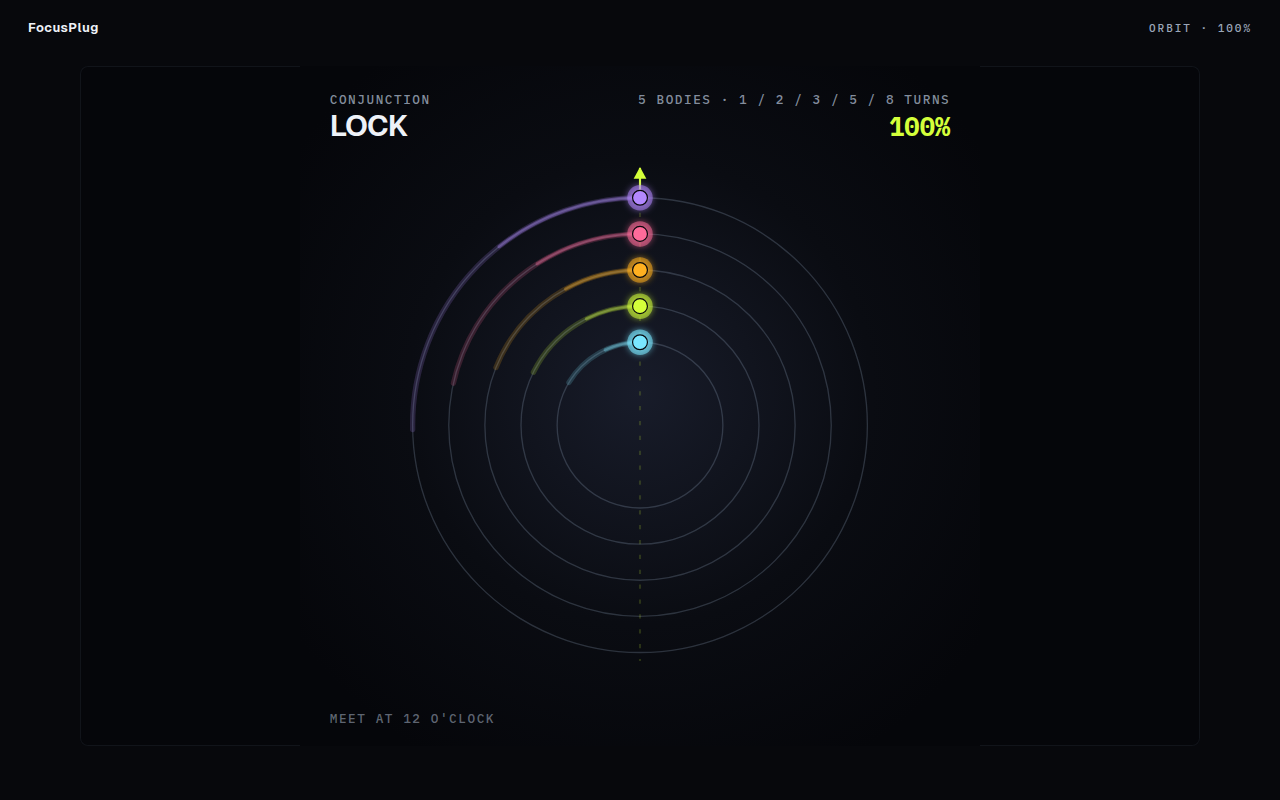
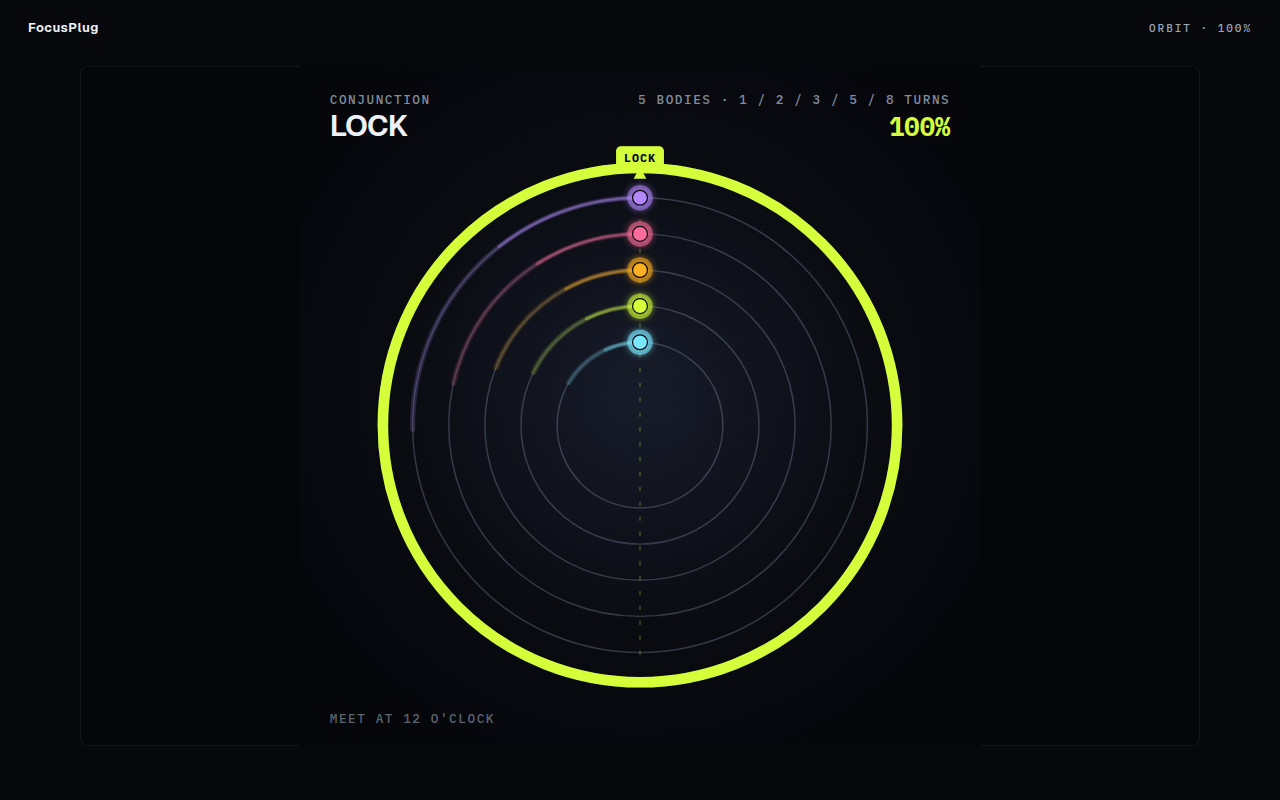
faces: Orbit mid-session reads as a converging timer
Add an outer progress ring and a 12 o'clock LOCK target so the 62%
still is a session, not a constellation poster. Lime ring on lock.

diff --git a/src/renderer/src/features/faces/orbit/OrbitFace.tsx b/src/renderer/src/features/faces/orbit/OrbitFace.tsx
@@ -68,8 +68,25 @@ export function OrbitFace(props: FaceProps): JSX.Element {
 
         <rect width={VW} height={VH} fill="url(#fp-orbit-void)" />
 
-        <line x1={cx} y1={cy - outer - 28} x2={cx} y2={cy + outer + 8} stroke={locked ? "rgba(212,255,58,0.16)" : "rgba(238,242,248,0.06)"} strokeWidth="2" strokeDasharray="4 10" />
-        <line x1={cx} y1={cy - outer - 28} x2={cx} y2={cy - outer + 6} stroke={locked ? "#d4ff3a" : "rgba(238,242,248,0.55)"} strokeWidth="2" />
+        <circle cx={cx} cy={cy} r={outer + 28} fill="none" stroke="rgba(170,190,220,0.16)" strokeWidth="10" />
+        <circle
+          cx={cx}
+          cy={cy}
+          r={outer + 28}
+          fill="none"
+          stroke={locked ? "#d4ff3a" : "#7aa2ff"}
+          strokeWidth="10"
+          strokeLinecap="round"
+          strokeDasharray={`${(outer + 28) * Math.PI * 2}`}
+          strokeDashoffset={`${(outer + 28) * Math.PI * 2 * (1 - progress)}`}
+          transform={`rotate(-90 ${cx} ${cy})`}
+        />
+
+        <line x1={cx} y1={cy - outer - 36} x2={cx} y2={cy + outer + 8} stroke={locked ? "rgba(212,255,58,0.2)" : "rgba(238,242,248,0.08)"} strokeWidth="2" strokeDasharray="4 10" />
+        <rect x={cx - 22} y={cy - outer - 48} width="44" height="20" rx="4" fill={locked ? "#d4ff3a" : "#161a24"} stroke={locked ? "#d4ff3a" : "rgba(238,242,248,0.45)"} />
+        <text x={cx} y={cy - outer - 34} textAnchor="middle" className="fp-orbit-locktag" fill={locked ? "#07080c" : "#eef2f8"}>
+          LOCK
+        </text>
         <polygon
           points={`${tick.x},${tick.y - 7} ${tick.x - 6},${tick.y + 4} ${tick.x + 6},${tick.y + 4}`}
           fill={locked ? "#d4ff3a" : "#eef2f8"}
@@ -79,8 +96,8 @@ export function OrbitFace(props: FaceProps): JSX.Element {
           const ghost = polar(cx, cy, radius, ALIGN_ANGLE);
           return (
             <g key={`ring-${i}`}>
-              <circle cx={cx} cy={cy} r={radius} fill="none" stroke="rgba(170,190,220,0.22)" strokeWidth="1.25" />
-              <circle cx={ghost.x} cy={ghost.y} r={3} fill={locked ? "#d4ff3a" : "rgba(238,242,248,0.28)"} />
+              <circle cx={cx} cy={cy} r={radius} fill="none" stroke="rgba(170,190,220,0.26)" strokeWidth="1.4" />
+              <circle cx={ghost.x} cy={ghost.y} r={4} fill={locked ? "#d4ff3a" : "rgba(212,255,58,0.45)"} />
             </g>
           );
         })}

diff --git a/src/renderer/src/features/faces/orbit/orbit.css b/src/renderer/src/features/faces/orbit/orbit.css
@@ -30,3 +30,10 @@
   font-weight: 700;
   font-variant-numeric: tabular-nums;
 }
+
+.fp-orbit-locktag {
+  font-family: var(--font-mono);
+  font-size: 11px;
+  font-weight: 700;
+  letter-spacing: 0.08em;
+}
